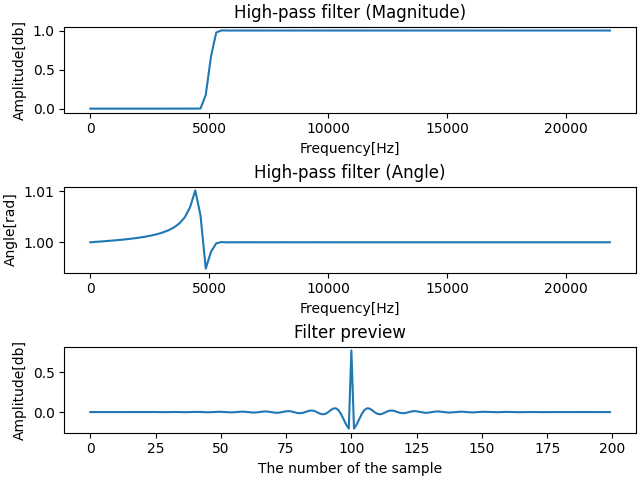
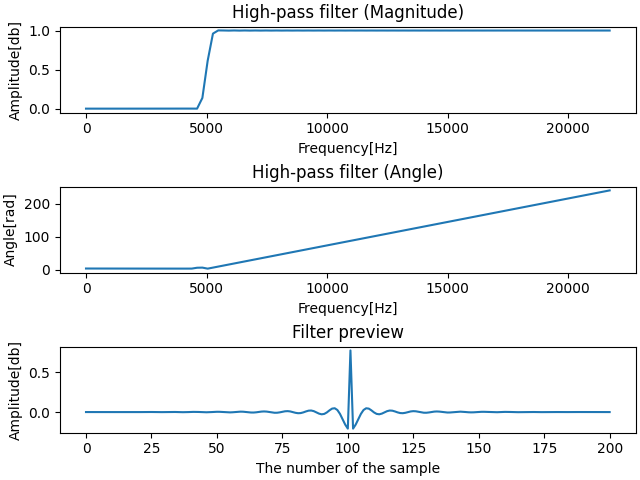
コードの修正

diff --git a/ex2/b4_imamura/main.py b/ex2/b4_imamura/main.py
@@ -6,6 +6,12 @@ import scipy
 import soundfile
 
 
+def sinc(x):
+    if x == 0:
+        return 1
+    else:
+        return np.sin(x)/x
+
 def conv(left: np.ndarray, right: np.ndarray):
     """Calculate convolution.
 
@@ -80,7 +86,28 @@ def highpass_filer(
     hpf = (np.sinc(x) - np.sinc(cut_off_fq_to_time * x) * cut_off_fq_to_time) * window(
         div_num
     )
-    return hpf
+    return np.array(hpf)
+
+def lowpass_filer(
+    div_num: int, cut_off_frequency: int, sample_rate: int, window=np.hamming
+):
+    """Make high-pass filter.
+
+    Args:
+        div_num (int): The number of the division.
+        cut_off_frequency (int): The cut-off frequency.
+        sample_rate (int): The sample rate of the sound.
+        window (numpy, optional): The setting of the window. Defaults to np.hamming.
+
+    Returns:
+        ndarray: The high-pass filter.
+    """
+    cut_off_fq_to_time = 2 * cut_off_frequency / (sample_rate)  # カットオフ周波数をsinc関数軸に変換
+    x = np.array([t for t in range(-div_num // 2, div_num // 2)])
+    hpf = []
+    for i in x:
+        hpf.append(sinc(cut_off_fq_to_time * i * np.pi) * cut_off_fq_to_time)
+    return hpf * window(div_num)
 
 
 def main():
@@ -88,7 +115,7 @@ def main():
     # 初期値の設定
     fig, ax = plt.subplots(4, 1, layout="constrained", sharex=True)
     fig2, ax2 = plt.subplots(3, 1, layout="constrained")
-    div_num = 200  # フィルターの分割数
+    div_num = 201  # フィルターの分割数
     cut_off_frequency = 5000  # 遮断周波数
 
     # 音源の読み込み、出力
@@ -115,7 +142,7 @@ def main():
     ax2[1].set_xlabel("Frequency[Hz]")
     ax2[1].set_ylabel("Angle[rad]")
     ax2[1].plot(
-        freq[: div_num // 2], np.unwrap(np.angle(hpf_fft[: div_num // 2]), period=np.pi) / np.pi
+        freq[: div_num // 2], np.unwrap(np.angle(hpf_fft[: div_num // 2]))
     )  # ハイパスフィルタの位相情報を出力
     ax2[2].set_title("Filter preview")
     ax2[2].set_xlabel("The number of the sample")
